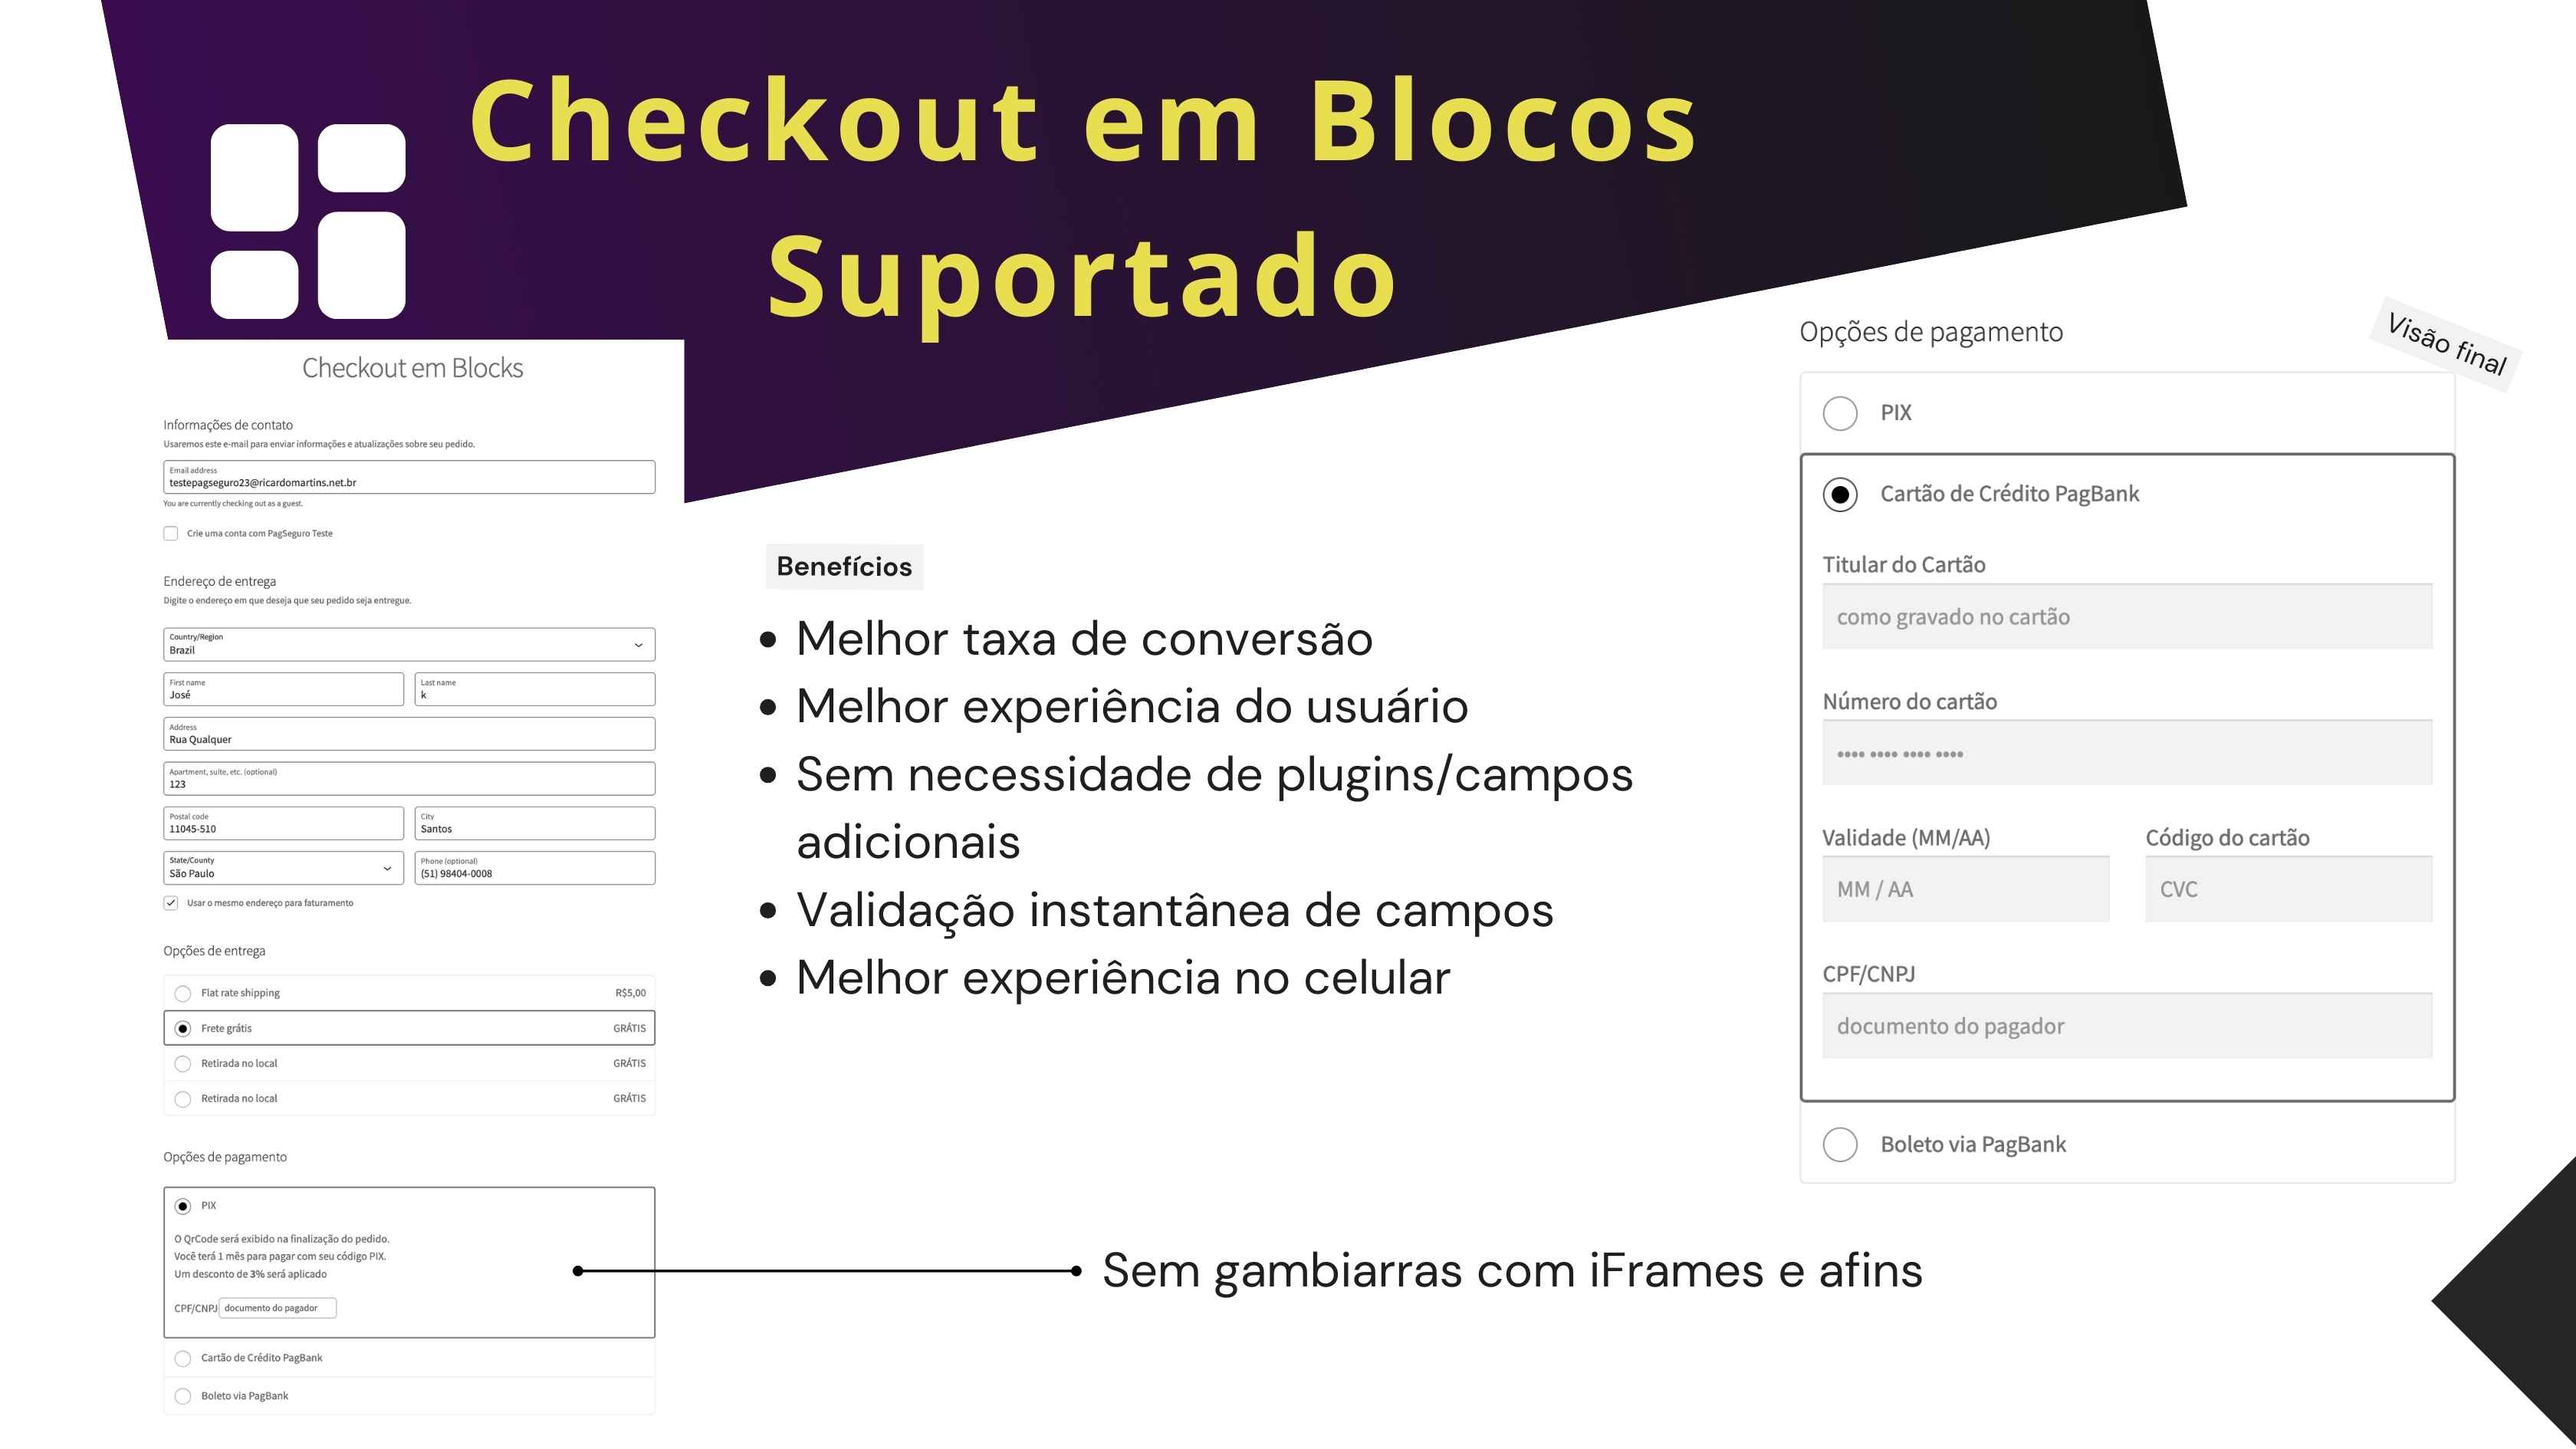
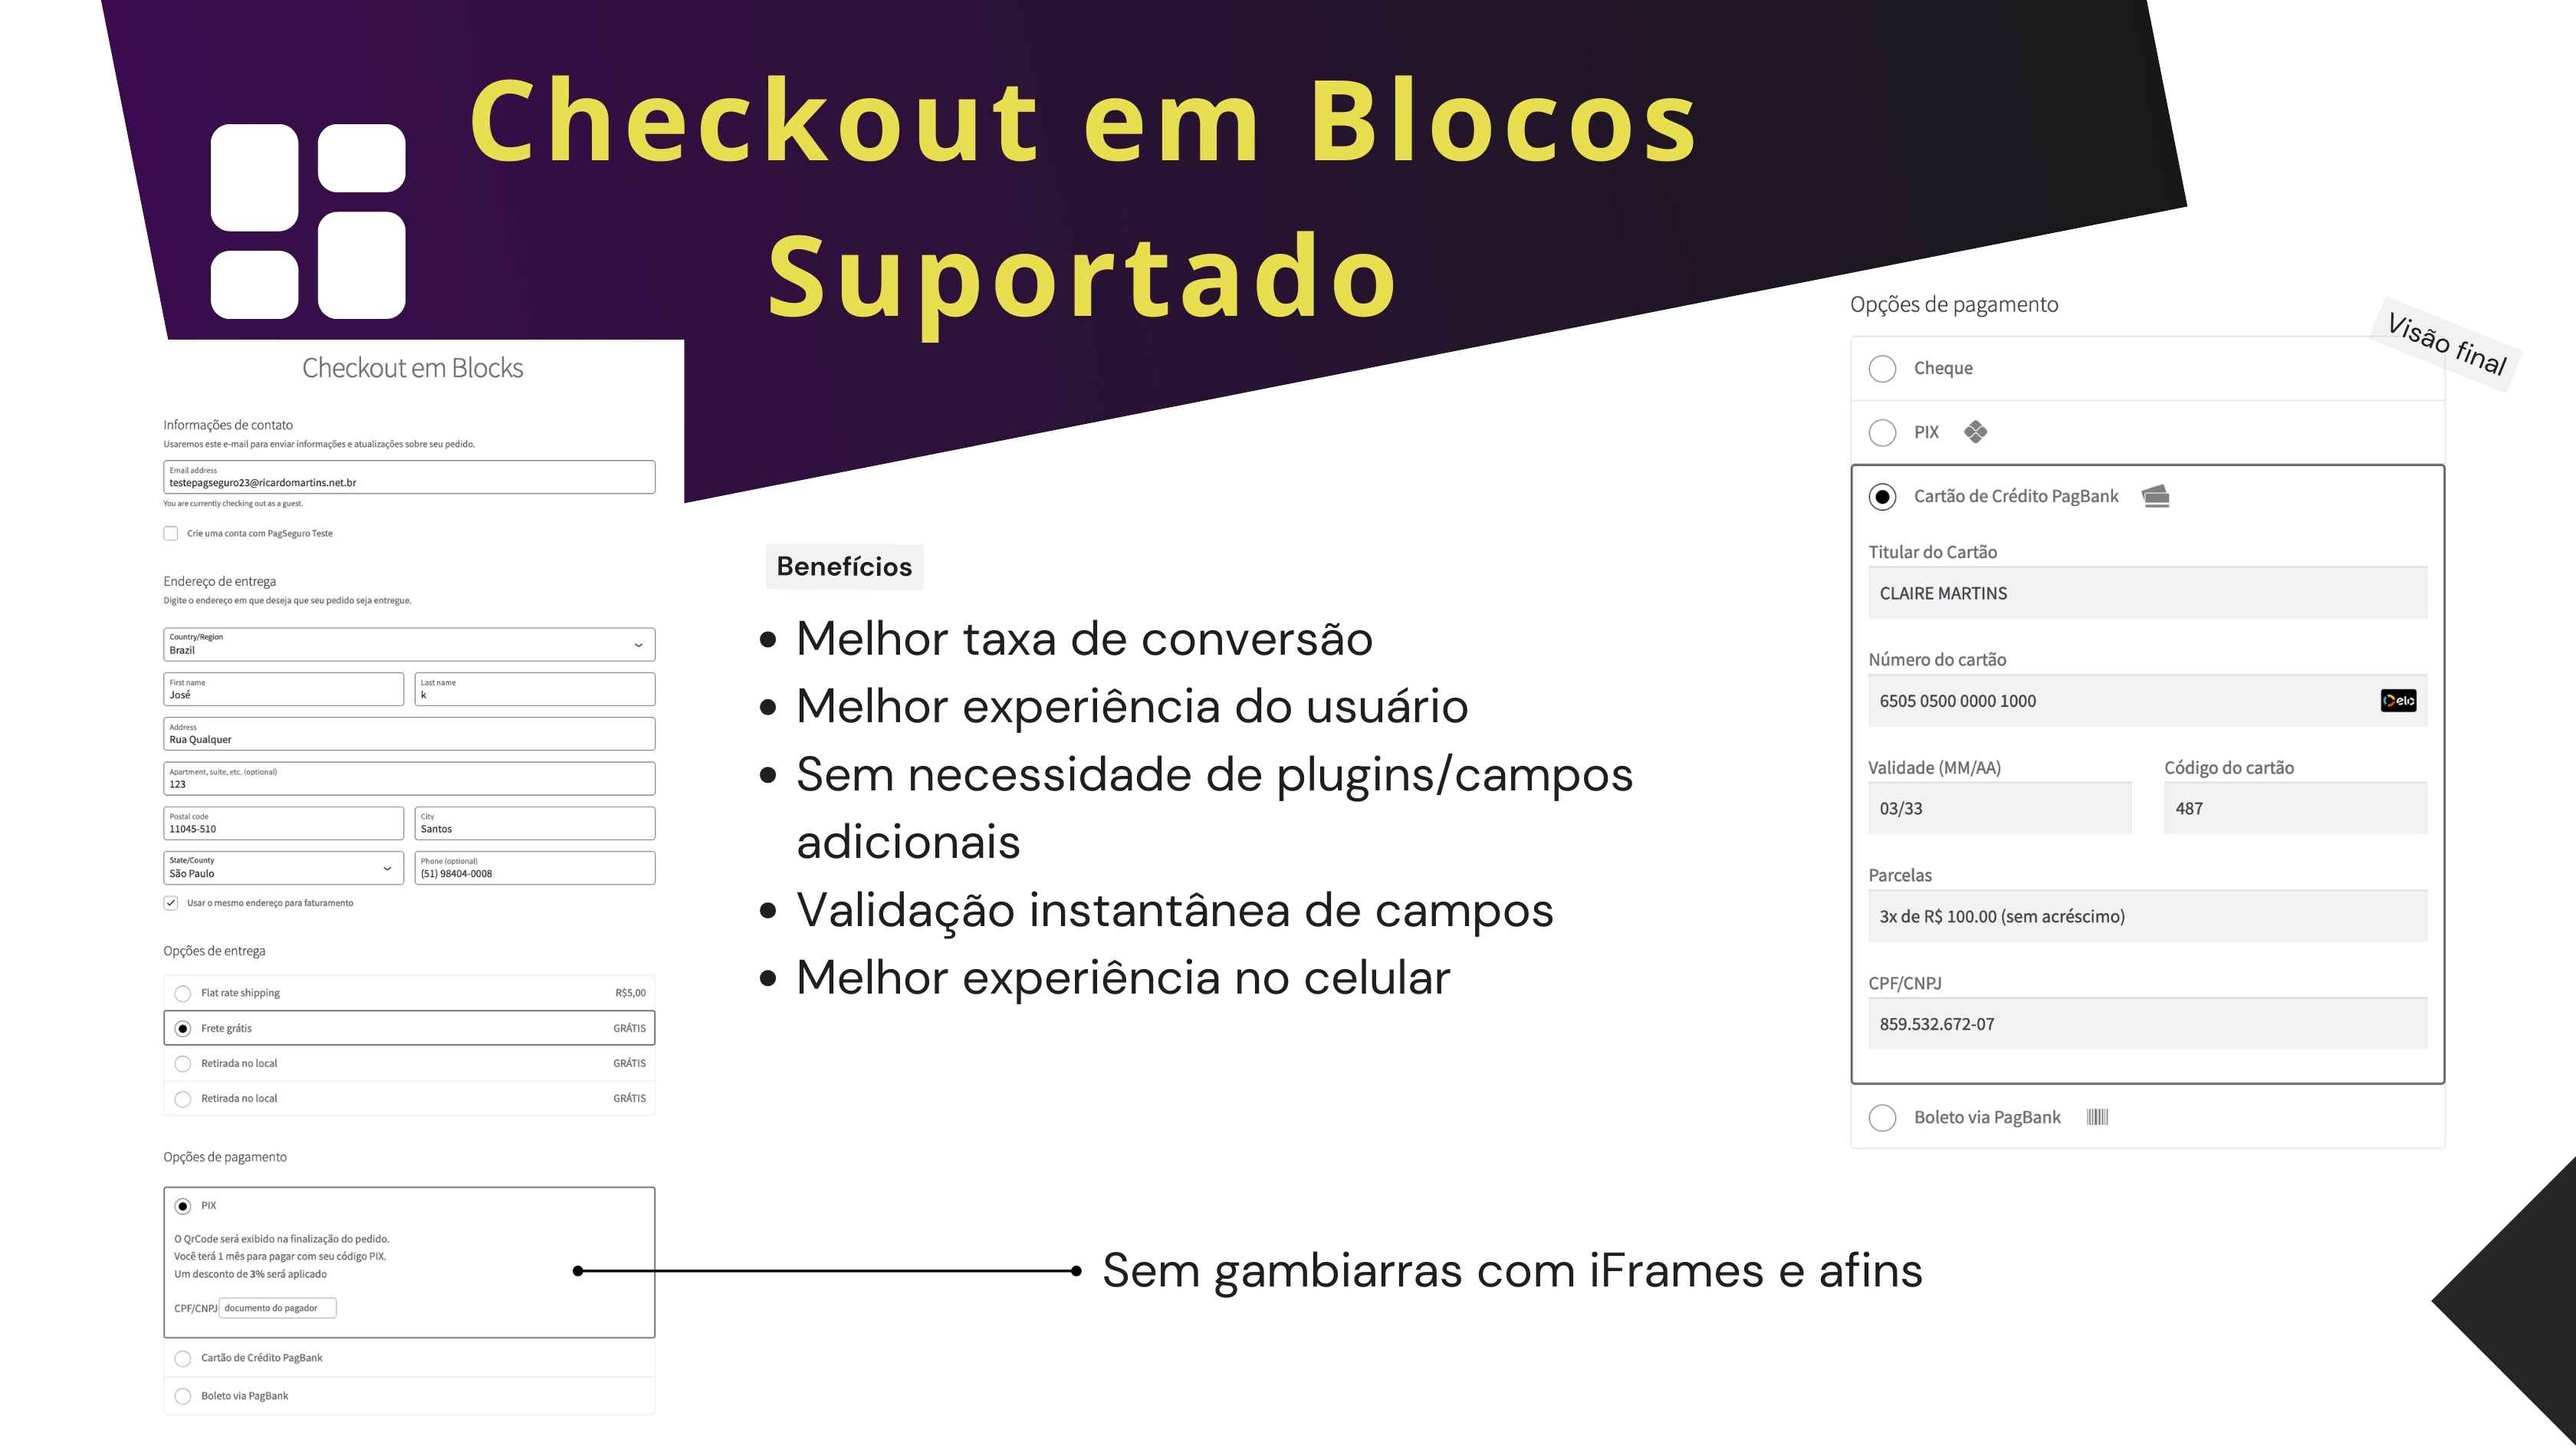
4.22.2

diff --git a/pagbank-connect/src/Traits/PaymentMethodIcon.php b/pagbank-connect/src/Traits/PaymentMethodIcon.php
@@ -9,19 +9,19 @@ trait PaymentMethodIcon
     /**
      * Get gateway icon
      *
-     * @param $icon
-     * @param $id
-     * @return mixed|string
+     * @return string
      */
-    public function getGatewayIcon($icon, $id) {
+    public function get_icon() {
+        $icon = parent::get_icon();
         $isDynamicIcoAccessible = Params::getIsDynamicIcoAccessible();
-        if ($isDynamicIcoAccessible && $id === $this->id) {
+        if ($isDynamicIcoAccessible) {
             $this->icon = apply_filters(
                 'wc_pagseguro_connect_icon',
                 plugins_url('public/images/payment-icon.php?method=' . $this->code, WC_PAGSEGURO_CONNECT_PLUGIN_FILE)
             );
             return '<img src="' . esc_url( \WC_HTTPS::force_https_url( $this->icon ) ) . '" alt="' . esc_attr( $this->get_title() ) . '" />';
         }
+
         return $icon;
     }
 }

diff --git a/pagbank-connect/rm-pagbank.php b/pagbank-connect/rm-pagbank.php
@@ -10,7 +10,7 @@
  * @wordpress-plugin
  * Plugin Name:       PagBank Connect
  * Description:       Integra seu WooCommerce com as APIs PagSeguro v4 através da aplicação de Ricardo Martins (com descontos nas taxas oficiais), com suporte a PIX transparente e muito mais.
- * Version:           4.22.1
+ * Version:           4.22.2
  * Requires at least: 5.2
  * Tested up to:      6.6
  * Requires PHP:      7.4
@@ -32,7 +32,7 @@ use RM_PagBank\EnvioFacil;
 defined( 'ABSPATH' ) || die( 'No direct script access allowed!' );
 
 // Plugin constants.
-define( 'WC_PAGSEGURO_CONNECT_VERSION', '4.22.1' );
+define( 'WC_PAGSEGURO_CONNECT_VERSION', '4.22.2' );
 define( 'WC_PAGSEGURO_CONNECT_PLUGIN_FILE', __FILE__ );
 define( 'WC_PAGSEGURO_CONNECT_BASE_DIR', __DIR__ );
 define( 'WC_PAGSEGURO_CONNECT_TEMPLATES_DIR', WC_PAGSEGURO_CONNECT_BASE_DIR . '/src/templates/' );

diff --git a/pagbank-connect/src/Connect/Standalone/CreditCard.php b/pagbank-connect/src/Connect/Standalone/CreditCard.php
@@ -66,7 +66,6 @@ class CreditCard extends WC_Payment_Gateway_CC
         add_action('wp_enqueue_scripts', [$this, 'addScripts']);
         add_action('admin_enqueue_scripts', [$this, 'addAdminStyles'], 10, 1);
         add_action('admin_enqueue_scripts', [$this, 'addAdminScripts'], 10, 1);
-        add_filter('woocommerce_gateway_icon', [$this, 'getGatewayIcon'], 10, 2);
     }
 
     public function init_form_fields()

diff --git a/pagbank-connect/src/Connect/Standalone/Boleto.php b/pagbank-connect/src/Connect/Standalone/Boleto.php
@@ -60,7 +60,6 @@ class Boleto extends WC_Payment_Gateway
         add_action('wp_enqueue_scripts', [$this, 'addScripts']);
         add_action('admin_enqueue_scripts', [$this, 'addAdminStyles'], 10, 1);
         add_action('admin_enqueue_scripts', [$this, 'addAdminScripts'], 10, 1);
-        add_filter('woocommerce_gateway_icon', [$this, 'getGatewayIcon'], 10, 2);
     }
 
     public function init_form_fields()

diff --git a/pagbank-connect/src/Connect/Standalone/Pix.php b/pagbank-connect/src/Connect/Standalone/Pix.php
@@ -63,7 +63,6 @@ class Pix extends WC_Payment_Gateway
         add_action('wp_enqueue_scripts', [$this, 'addScripts']);
         add_action('admin_enqueue_scripts', [$this, 'addAdminStyles'], 10, 1);
         add_action('admin_enqueue_scripts', [$this, 'addAdminScripts'], 10, 1);
-        add_filter('woocommerce_gateway_icon', [$this, 'getGatewayIcon'], 10, 2);
     }
 
     public function init_form_fields()
